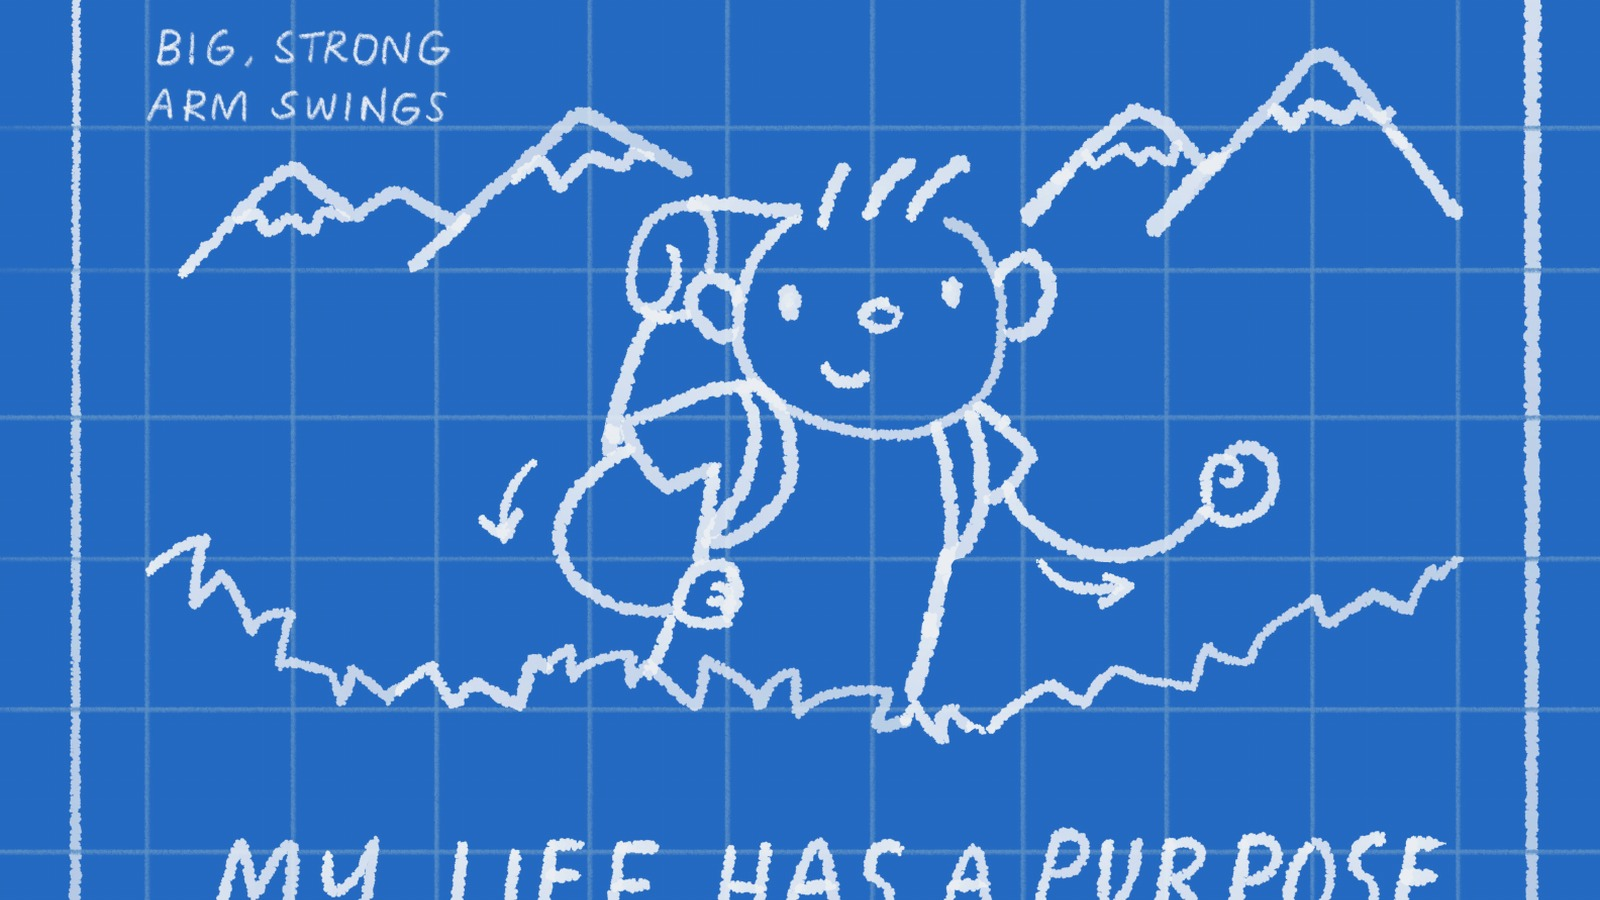
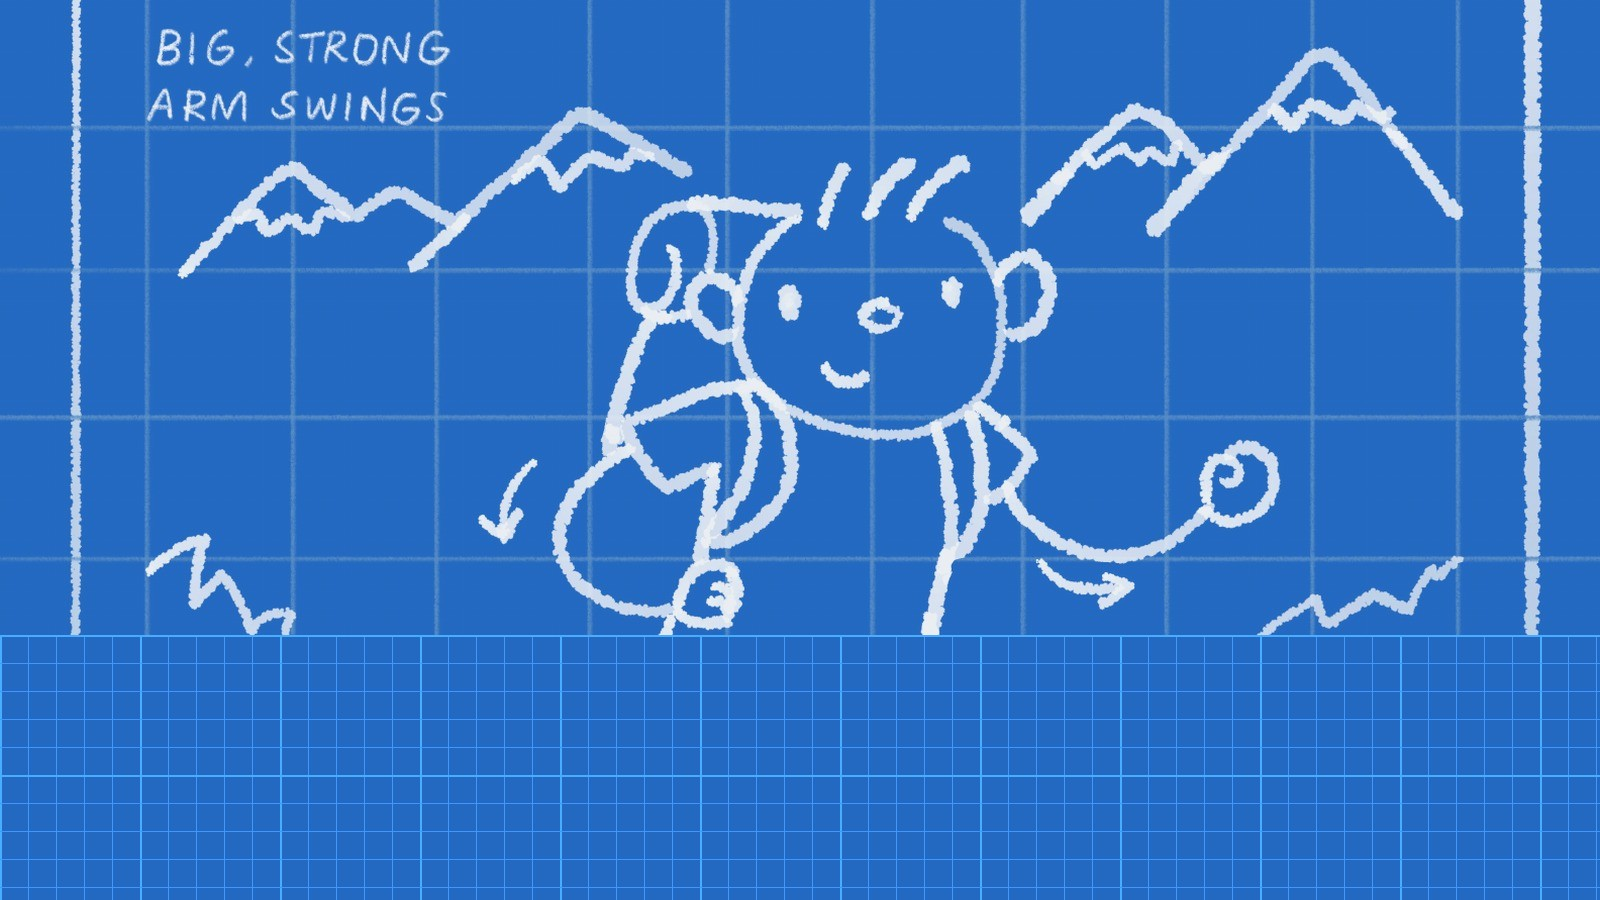
Move Follow Gods Plan lyrics to clean lower band

Changed region(s): [[0.0, 0.6844, 1.0, 1.0]]

diff --git a/i-will-follow-gods-plan/flipchart.html b/i-will-follow-gods-plan/flipchart.html
@@ -21,11 +21,12 @@
         .slide { display: none; position: absolute; inset: 0; }
         .slide.active { display: flex; flex-direction: column; }
         .slide-bg { position: absolute; inset: 0; width: 100%; height: 100%; object-fit: cover; background-size: cover; background-position: center; filter: brightness(0.66) saturate(1.12); }
-        .slide-content { position: relative; z-index: 1; display: flex; flex-direction: column; align-items: center; justify-content: center; height: 100%; padding: 52px 86px 108px; text-align: center; }
+        .slide-content { position: relative; z-index: 1; display: flex; flex-direction: column; align-items: center; justify-content: flex-end; height: 100%; padding: 52px 86px 126px; text-align: center; }
         .slide-section { font-size: clamp(0.7rem, 1.4vw, 0.95rem); letter-spacing: 3px; text-transform: uppercase; color: color-mix(in srgb, var(--accent) 72%, white); margin-bottom: 22px; text-shadow: 0 2px 12px rgba(0,0,0,0.7); }
         .slide-line { font-size: clamp(2.2rem, 5.6vw, 4.85rem); font-weight: 800; color: #fffdf7; line-height: 1.14; text-shadow: 0 3px 25px rgba(0,0,0,0.95), 0 1px 8px rgba(0,0,0,1); max-width: 1240px; width: 100%; margin: 0 auto; text-align: center; }
         .slide-line.keywords { font-size: clamp(2.25rem, 6.7vw, 5rem); color: var(--accent); letter-spacing: 0; }
         .title-main { font-size: clamp(3rem, 7.4vw, 6.15rem); font-weight: bold; color: #fffdf7; text-shadow: 0 4px 30px rgba(0,0,0,0.95); margin-bottom: 16px; max-width: 1240px; width: 100%; text-align: center; }
+        .slide[data-type="title"] .slide-content { justify-content: center; }
         .title-sub { font-size: clamp(0.95rem, 2.1vw, 1.35rem); color: rgba(255,255,255,0.76); letter-spacing: 1px; text-shadow: 0 2px 14px rgba(0,0,0,0.85); }
         .nav { position: fixed; bottom: 0; left: 50%; transform: translateX(-50%); width: min(100vw, 177.78vh); z-index: 100; display: flex; align-items: center; justify-content: space-between; padding: 14px 24px; background: rgba(0,0,0,0.52); backdrop-filter: blur(8px); }
         .nav-btn { background: rgba(255,255,255,0.15); border: 1px solid rgba(255,255,255,0.25); color: white; padding: 10px 32px; border-radius: 30px; font-size: 1.1rem; cursor: pointer; transition: all 0.2s; font-family: Georgia, serif; -webkit-tap-highlight-color: transparent; }
@@ -45,7 +46,7 @@
         #slideshow.photo-mode .slide-line, #slideshow.photo-mode .slide-section, #slideshow.photo-mode .title-main, #slideshow.photo-mode .title-sub { opacity: 0 !important; transition: opacity 0.3s; }
         #slideshow.photo-mode .slide-bg { filter: brightness(0.9) saturate(1.12) !important; }
         .progress-bar { position: fixed; top: 0; left: 50%; transform: translateX(-50%); height: 4px; background: var(--accent); transition: width 0.3s ease; z-index: 200; max-width: min(100vw, 177.78vh); }
-        @media (max-width: 768px) { .slide-content { padding: 30px 30px 90px; } .slide-line { font-size: clamp(1.45rem, 6.2vw, 2.45rem); } .nav-btn { padding: 10px 24px; font-size: 1rem; } }
+        @media (max-width: 768px) { .slide-content { padding: 30px 30px 110px; } .slide-line { font-size: clamp(1.45rem, 6.2vw, 2.45rem); } .nav-btn { padding: 10px 24px; font-size: 1rem; } }
 
         .nav-btn.hidden { visibility: hidden; pointer-events: none; }
         .nav-btn.icon-btn { width: 44px; height: 44px; padding: 0; display: inline-flex; align-items: center; justify-content: center; font-size: 1rem; line-height: 1; }
@@ -69,50 +70,50 @@
 <div class="mode-toggle"><button class="mode-btn active" id="modeBtn" onclick="cycleMode()" title="Cycle: Lyrics to Guess to Keywords to Photo" aria-label="Cycle display mode">📝</button></div>
 <div class="aspect-wrapper"><div class="screen"><div class="slideshow" id="slideshow">
     <div class="slide active" data-type="title">
-        <img class="slide-bg" src="images/title.jpg?v=20260722pdf" alt="" aria-hidden="true">
+        <img class="slide-bg" src="images/title.jpg?v=20260722planb" alt="" aria-hidden="true">
         <div class="slide-content">
             <div class="title-main">I Will Follow God&#x27;s Plan</div>
             <div class="title-sub">Vanja Y. Watkins · Primary Flipchart</div>
         </div>
     </div>
     <div class="slide" data-section="Verse" data-full="My life is a gift; my life has a plan." data-key="GIFT · PLAN">
-        <img class="slide-bg" src="images/slide-01.jpg?v=20260722pdf" alt="" aria-hidden="true">
+        <img class="slide-bg" src="images/slide-01.jpg?v=20260722planb" alt="" aria-hidden="true">
         <div class="slide-content"><div class="slide-section">Verse</div><div class="slide-line"></div></div>
     </div>
     <div class="slide" data-section="Verse" data-full="My life has a purpose; in heav’n it began." data-key="PURPOSE · HEAVEN">
-        <img class="slide-bg" src="images/slide-02.jpg?v=20260722pdf" alt="" aria-hidden="true">
+        <img class="slide-bg" src="images/slide-02.jpg?v=20260722planb" alt="" aria-hidden="true">
         <div class="slide-content"><div class="slide-section"></div><div class="slide-line"></div></div>
     </div>
     <div class="slide" data-section="Verse" data-full="My choice was to come to this lovely home on earth" data-key="CHOICE · EARTH">
-        <img class="slide-bg" src="images/slide-03.jpg?v=20260722pdf" alt="" aria-hidden="true">
+        <img class="slide-bg" src="images/slide-03.jpg?v=20260722planb" alt="" aria-hidden="true">
         <div class="slide-content"><div class="slide-section"></div><div class="slide-line"></div></div>
     </div>
     <div class="slide" data-section="Verse" data-full="And seek for God’s light to direct me from birth." data-key="GOD’S LIGHT">
-        <img class="slide-bg" src="images/slide-04.jpg?v=20260722pdf" alt="" aria-hidden="true">
+        <img class="slide-bg" src="images/slide-04.jpg?v=20260722planb" alt="" aria-hidden="true">
         <div class="slide-content"><div class="slide-section"></div><div class="slide-line"></div></div>
     </div>
     <div class="slide" data-section="Verse" data-full="I will follow God’s plan for me," data-key="FOLLOW · PLAN">
-        <img class="slide-bg" src="images/slide-05.jpg?v=20260722pdf" alt="" aria-hidden="true">
+        <img class="slide-bg" src="images/slide-05.jpg?v=20260722planb" alt="" aria-hidden="true">
         <div class="slide-content"><div class="slide-section"></div><div class="slide-line"></div></div>
     </div>
     <div class="slide" data-section="Verse" data-full="Holding fast to his word and his love." data-key="WORD · LOVE">
-        <img class="slide-bg" src="images/slide-06.jpg?v=20260722pdf" alt="" aria-hidden="true">
+        <img class="slide-bg" src="images/slide-06.jpg?v=20260722planb" alt="" aria-hidden="true">
         <div class="slide-content"><div class="slide-section"></div><div class="slide-line"></div></div>
     </div>
     <div class="slide" data-section="Verse" data-full="I will work, and I will pray;" data-key="WORK · PRAY">
-        <img class="slide-bg" src="images/slide-07.jpg?v=20260722pdf" alt="" aria-hidden="true">
+        <img class="slide-bg" src="images/slide-07.jpg?v=20260722planb" alt="" aria-hidden="true">
         <div class="slide-content"><div class="slide-section"></div><div class="slide-line"></div></div>
     </div>
     <div class="slide" data-section="Verse" data-full="I will always walk in his way." data-key="WALK · WAY">
-        <img class="slide-bg" src="images/slide-08.jpg?v=20260722pdf" alt="" aria-hidden="true">
+        <img class="slide-bg" src="images/slide-08.jpg?v=20260722planb" alt="" aria-hidden="true">
         <div class="slide-content"><div class="slide-section"></div><div class="slide-line"></div></div>
     </div>
     <div class="slide" data-section="Verse" data-full="Then I will be happy on earth" data-key="HAPPY · EARTH">
-        <img class="slide-bg" src="images/slide-09.jpg?v=20260722pdf" alt="" aria-hidden="true">
+        <img class="slide-bg" src="images/slide-09.jpg?v=20260722planb" alt="" aria-hidden="true">
         <div class="slide-content"><div class="slide-section"></div><div class="slide-line"></div></div>
     </div>
     <div class="slide" data-section="Verse" data-full="And in my home above." data-key="HOME ABOVE">
-        <img class="slide-bg" src="images/slide-10.jpg?v=20260722pdf" alt="" aria-hidden="true">
+        <img class="slide-bg" src="images/slide-10.jpg?v=20260722planb" alt="" aria-hidden="true">
         <div class="slide-content"><div class="slide-section"></div><div class="slide-line"></div></div>
     </div>
 </div></div></div>
